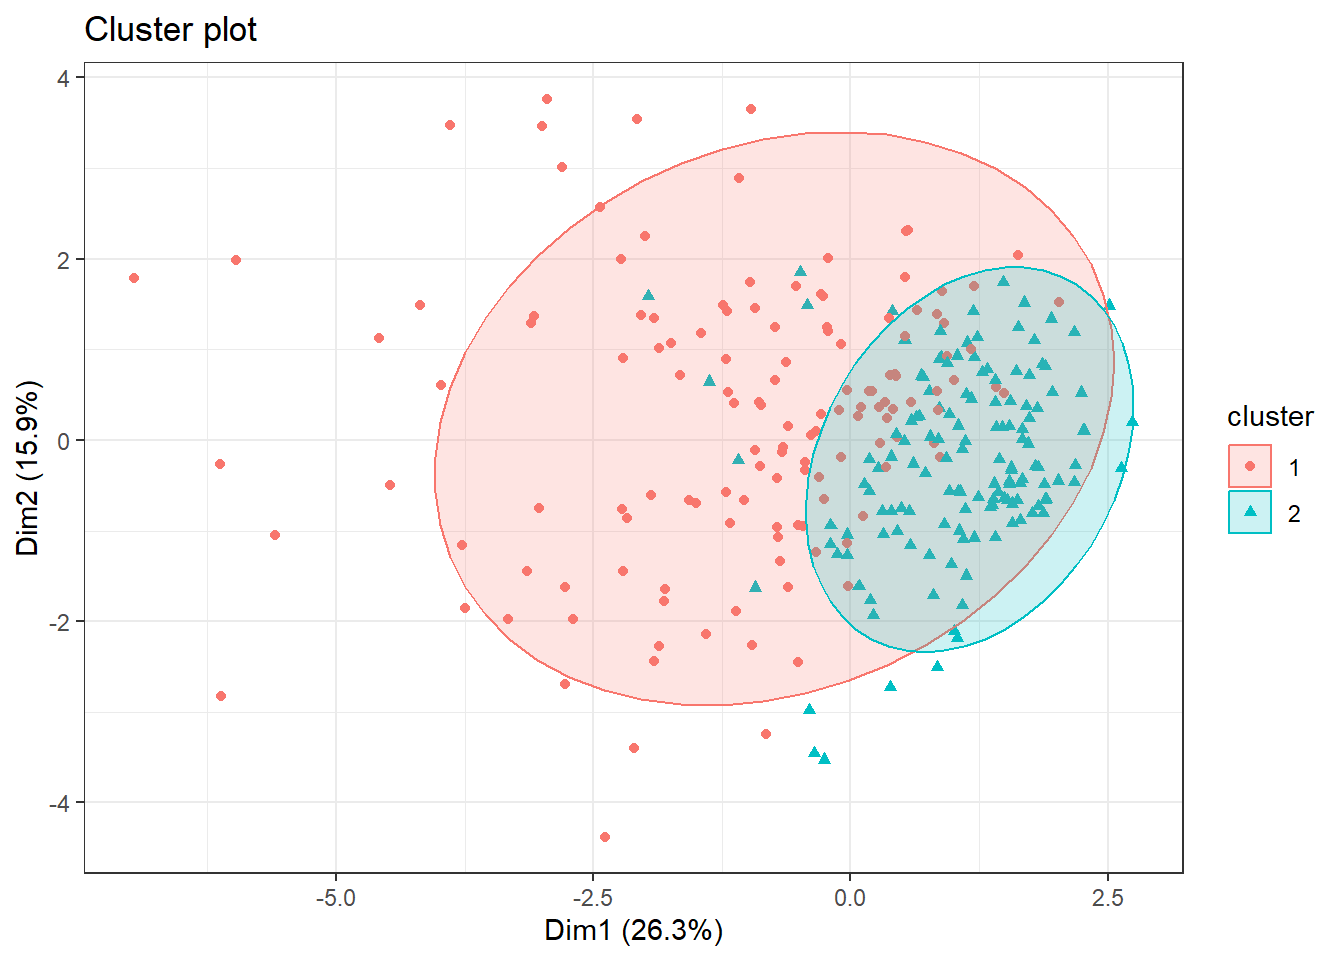
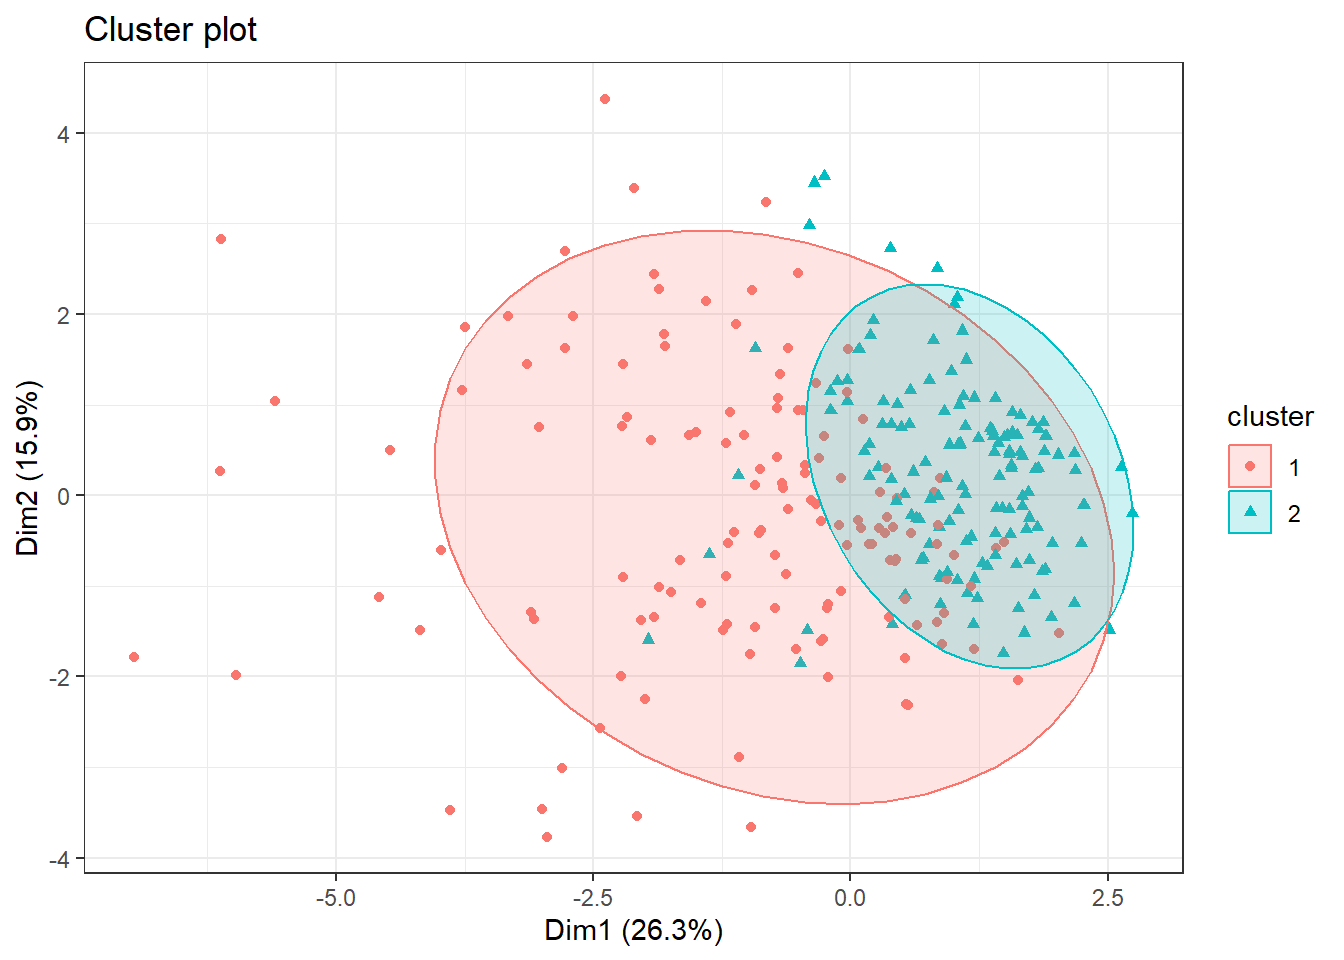
Imprimir

diff --git a/Entrega_Clustering.html b/Entrega_Clustering.html
@@ -719,17 +719,17 @@ Dim.11    0.32946          2.99511                   100.00000</code></pre>
 <div class="cell">
 <div class="cell-output cell-output-stdout">
 <pre><code>                  PC1     PC2
-N_Days         0.3585  0.2066
-Age           -0.1023 -0.4465
-Bilirubin     -0.4919  0.0652
-Cholesterol   -0.2640  0.4403
-Albumin        0.3257  0.2734
-Copper        -0.3962 -0.0226
-Alk_Phos      -0.1544  0.2527
-SGOT          -0.3326  0.2131
-Tryglicerides -0.3010  0.2445
-Platelets      0.0885  0.4649
-Prothrombin   -0.2311 -0.3154</code></pre>
+N_Days         0.3585 -0.2066
+Age           -0.1023  0.4465
+Bilirubin     -0.4919 -0.0652
+Cholesterol   -0.2640 -0.4403
+Albumin        0.3257 -0.2734
+Copper        -0.3962  0.0226
+Alk_Phos      -0.1544 -0.2527
+SGOT          -0.3326 -0.2131
+Tryglicerides -0.3010 -0.2445
+Platelets      0.0885 -0.4649
+Prothrombin   -0.2311  0.3154</code></pre>
 </div>
 </div>
 <p>Observemos que la primera componente principal da un peso muy elevado y negativo a la variable <code>Bilirubin</code>.</p>
